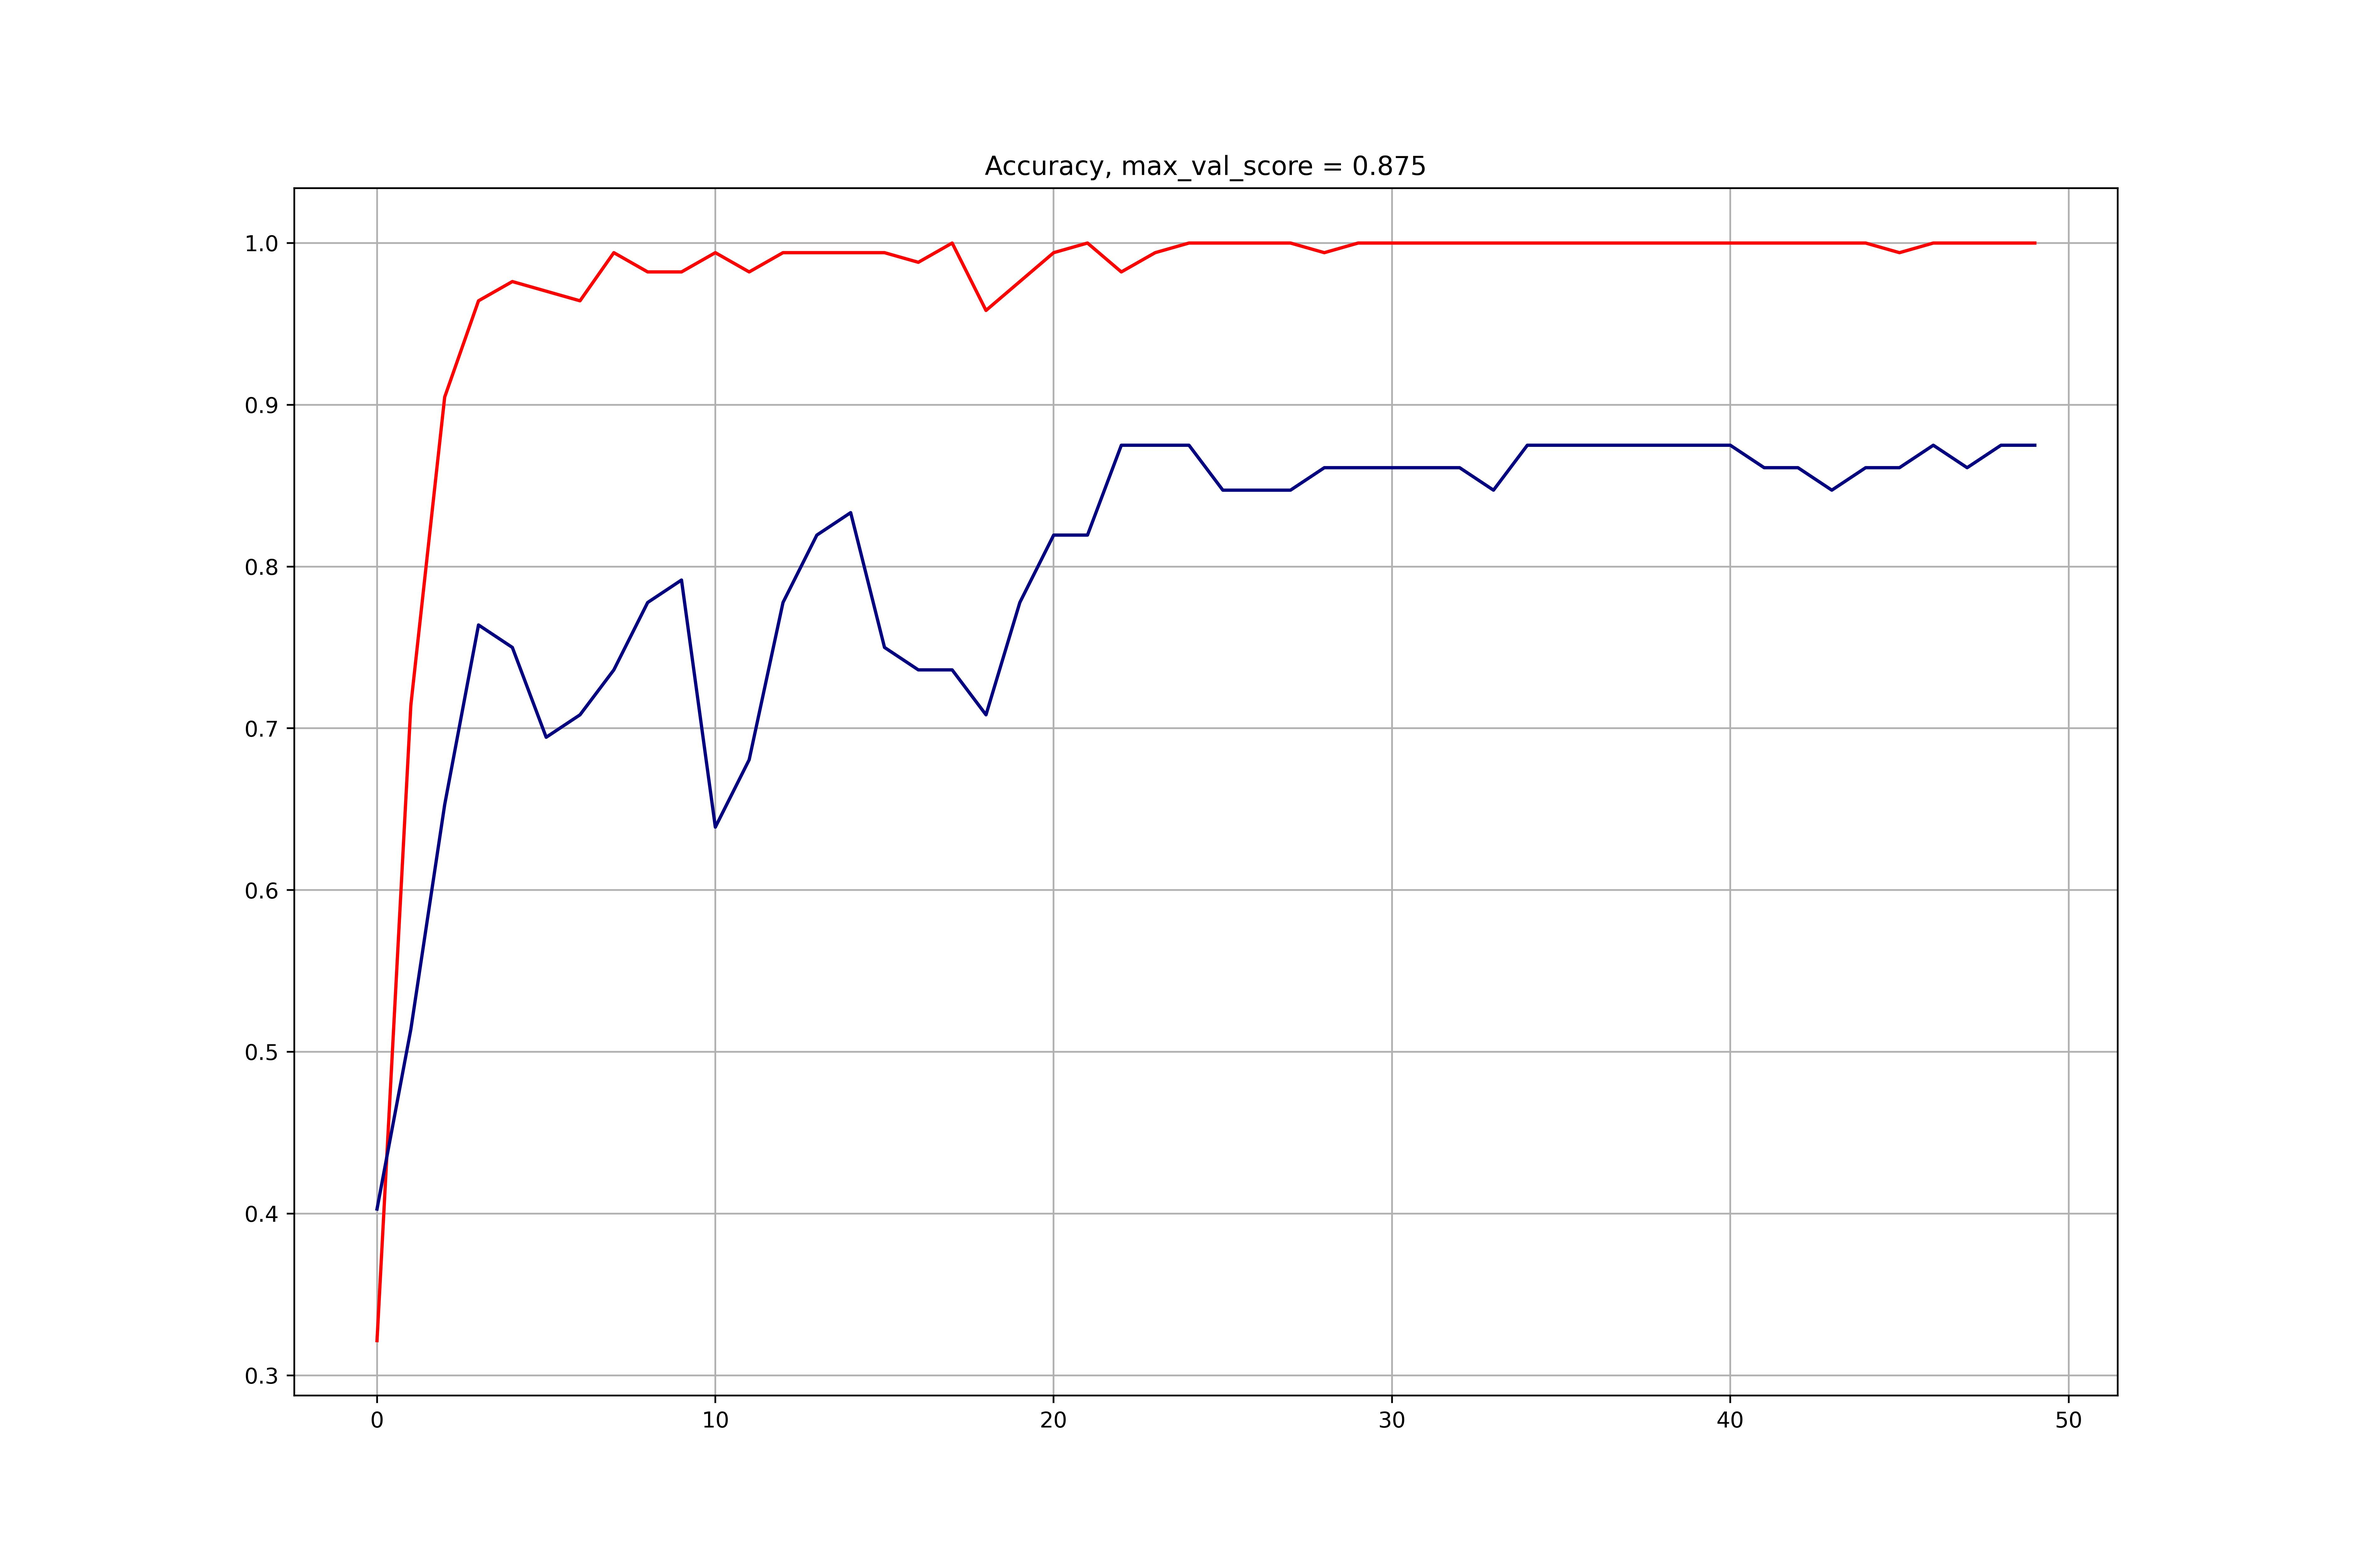
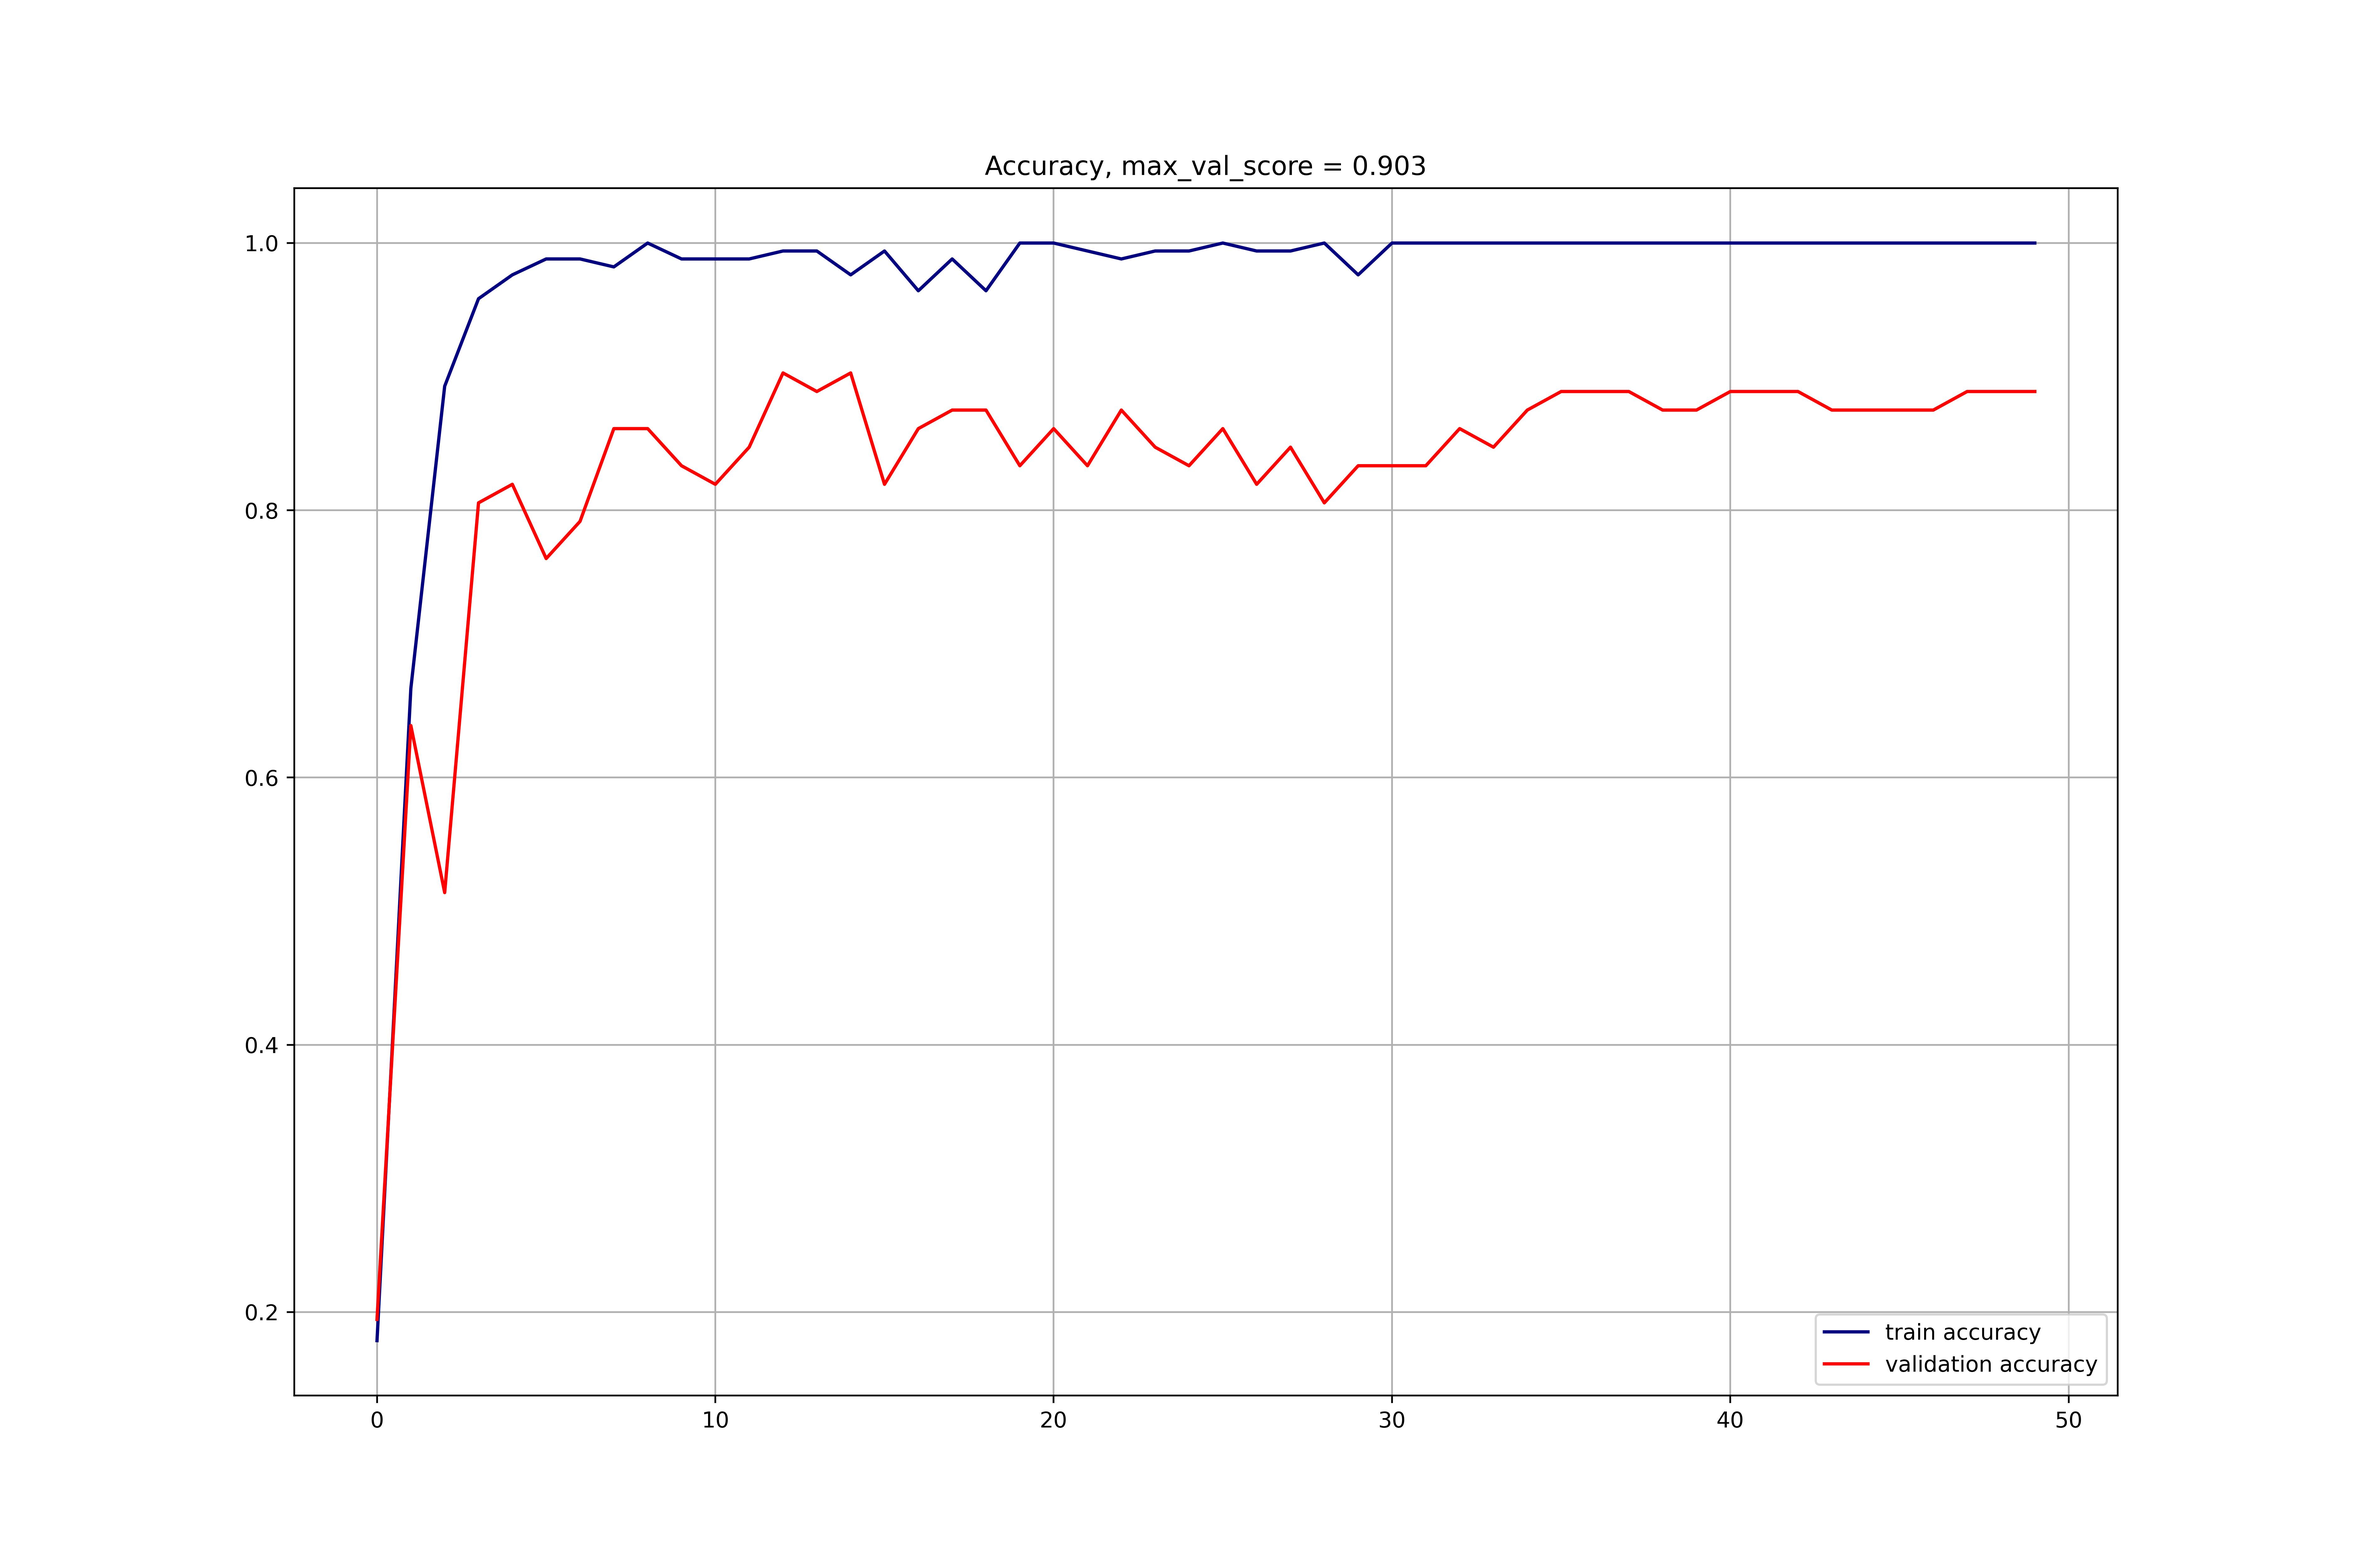
Adding legends to graphs

diff --git a/Face Recognition/main.py b/Face Recognition/main.py
@@ -146,8 +146,9 @@ def get_trained_model(
 
     plt.figure(figsize=(15, 10))
     plt.grid()
-    plt.plot(history["train_loss"], color="red")
-    plt.plot(history["val_loss"], color="navy")
+    plt.plot(history["train_loss"], color="navy", label="train loss")
+    plt.plot(history["val_loss"], color="red", label="validation loss")
+    plt.legend(loc='best')
     plt.title(f"Loss, min_val_loss = {np.round(min(history['val_loss']), 3)}")
 
     if path is None:
@@ -158,8 +159,9 @@ def get_trained_model(
 
     plt.figure(figsize=(15, 10))
     plt.grid()
-    plt.plot(history["train_acc"], color="red")
-    plt.plot(history["val_acc"], color="navy")
+    plt.plot(history["train_acc"], color="navy", label="train accuracy")
+    plt.plot(history["val_acc"], color="red", label="validation accuracy")
+    plt.legend(loc='best')
     plt.title(f"Accuracy, max_val_score = {np.round(max(history['val_acc']), 3)}")
 
     if path is None:

diff --git a/README.md b/README.md
@@ -1,6 +1,6 @@
 # Solving face recognition task using Pytorch, MTCNN and ResNet18
 This project uses MTCNN (https://github.com/ipazc/mtcnn) as an aligner and ResNet18 as a recognizer.
-This model achieved 87.5% accuracy on validation data and 91.1% on test data.
+This model achieved 90.3% accuracy on validation data and 92.1% on test data.
 Used dataset: https://www.kaggle.com/datasets/jessicali9530/lfw-dataset/data
 
 ```
